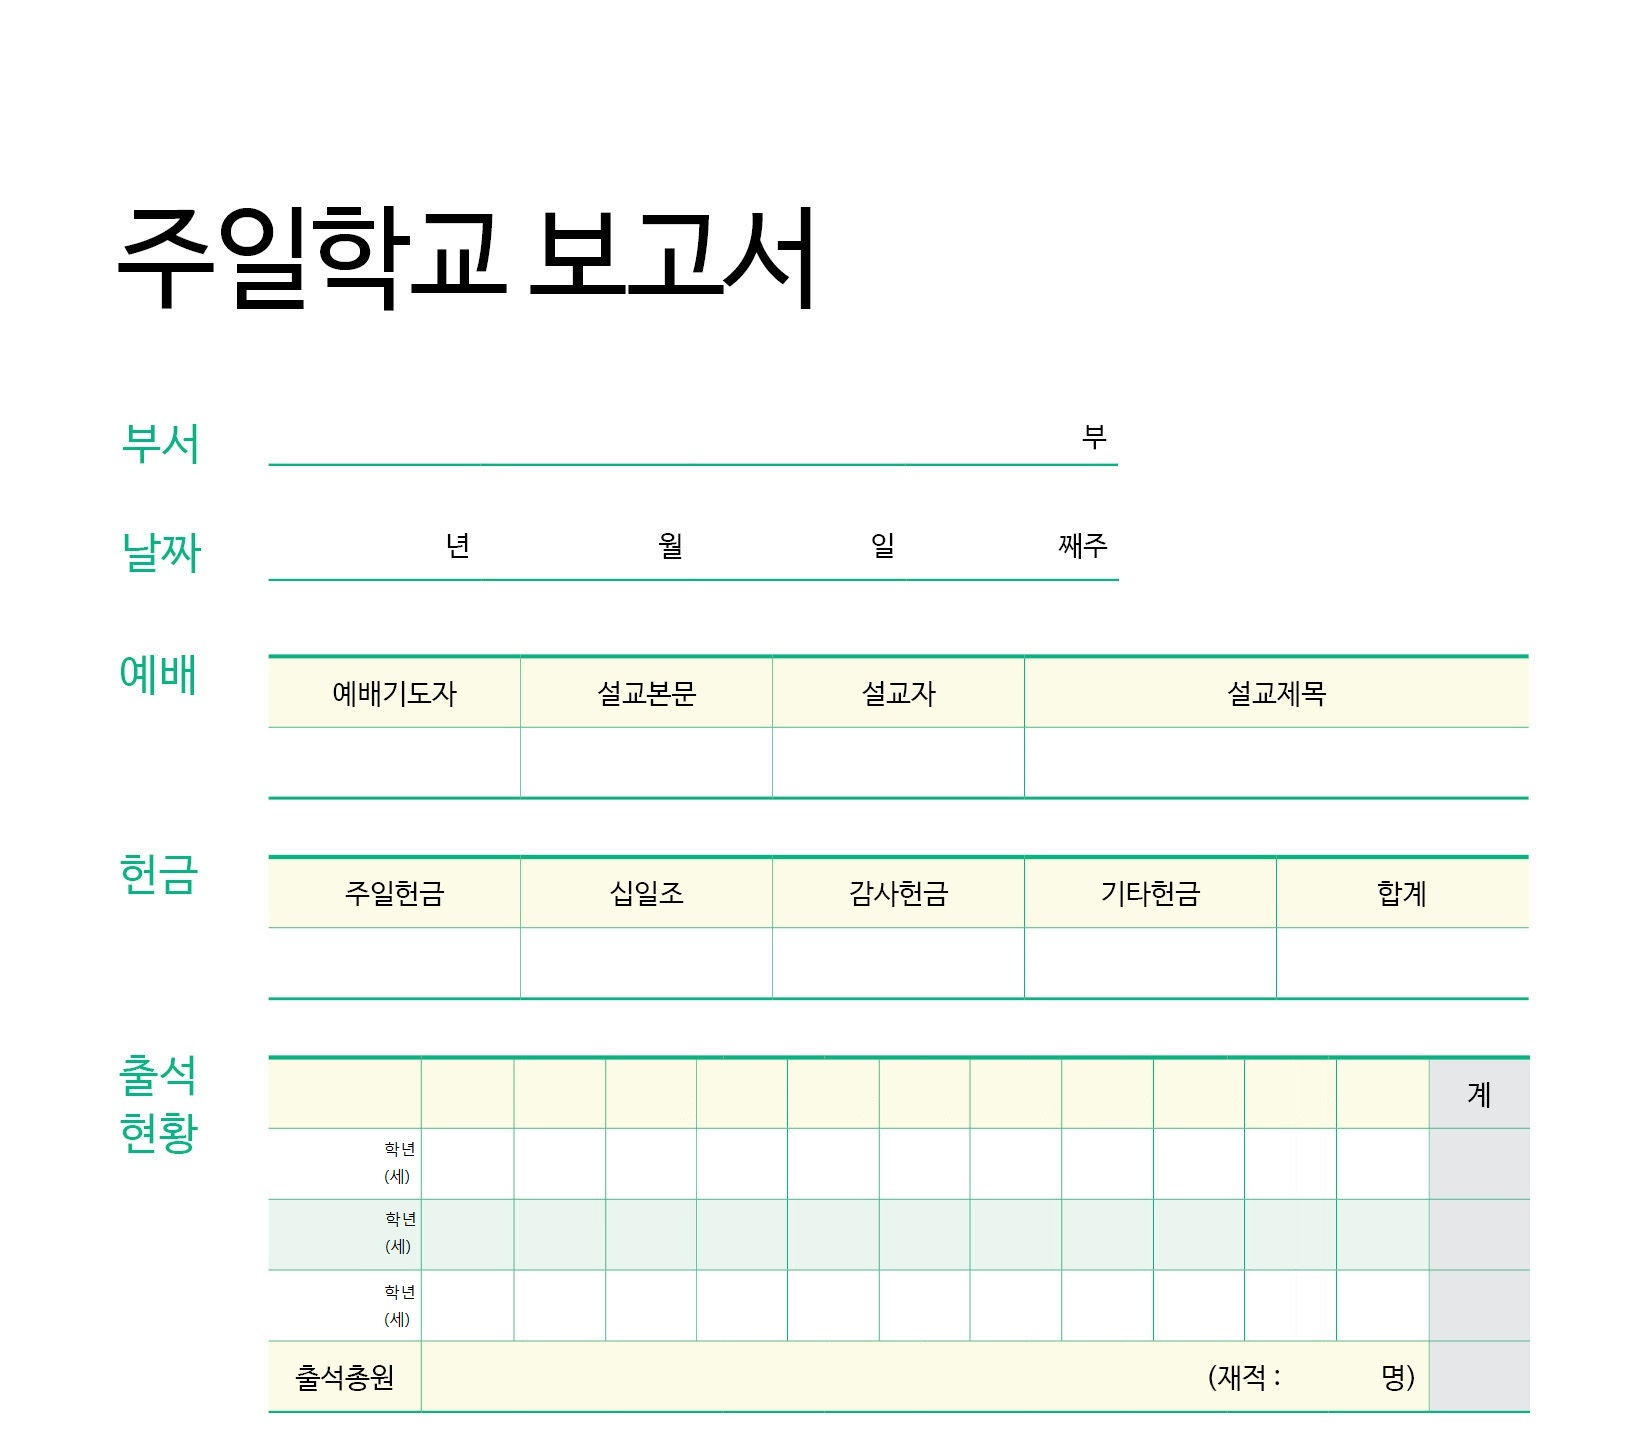
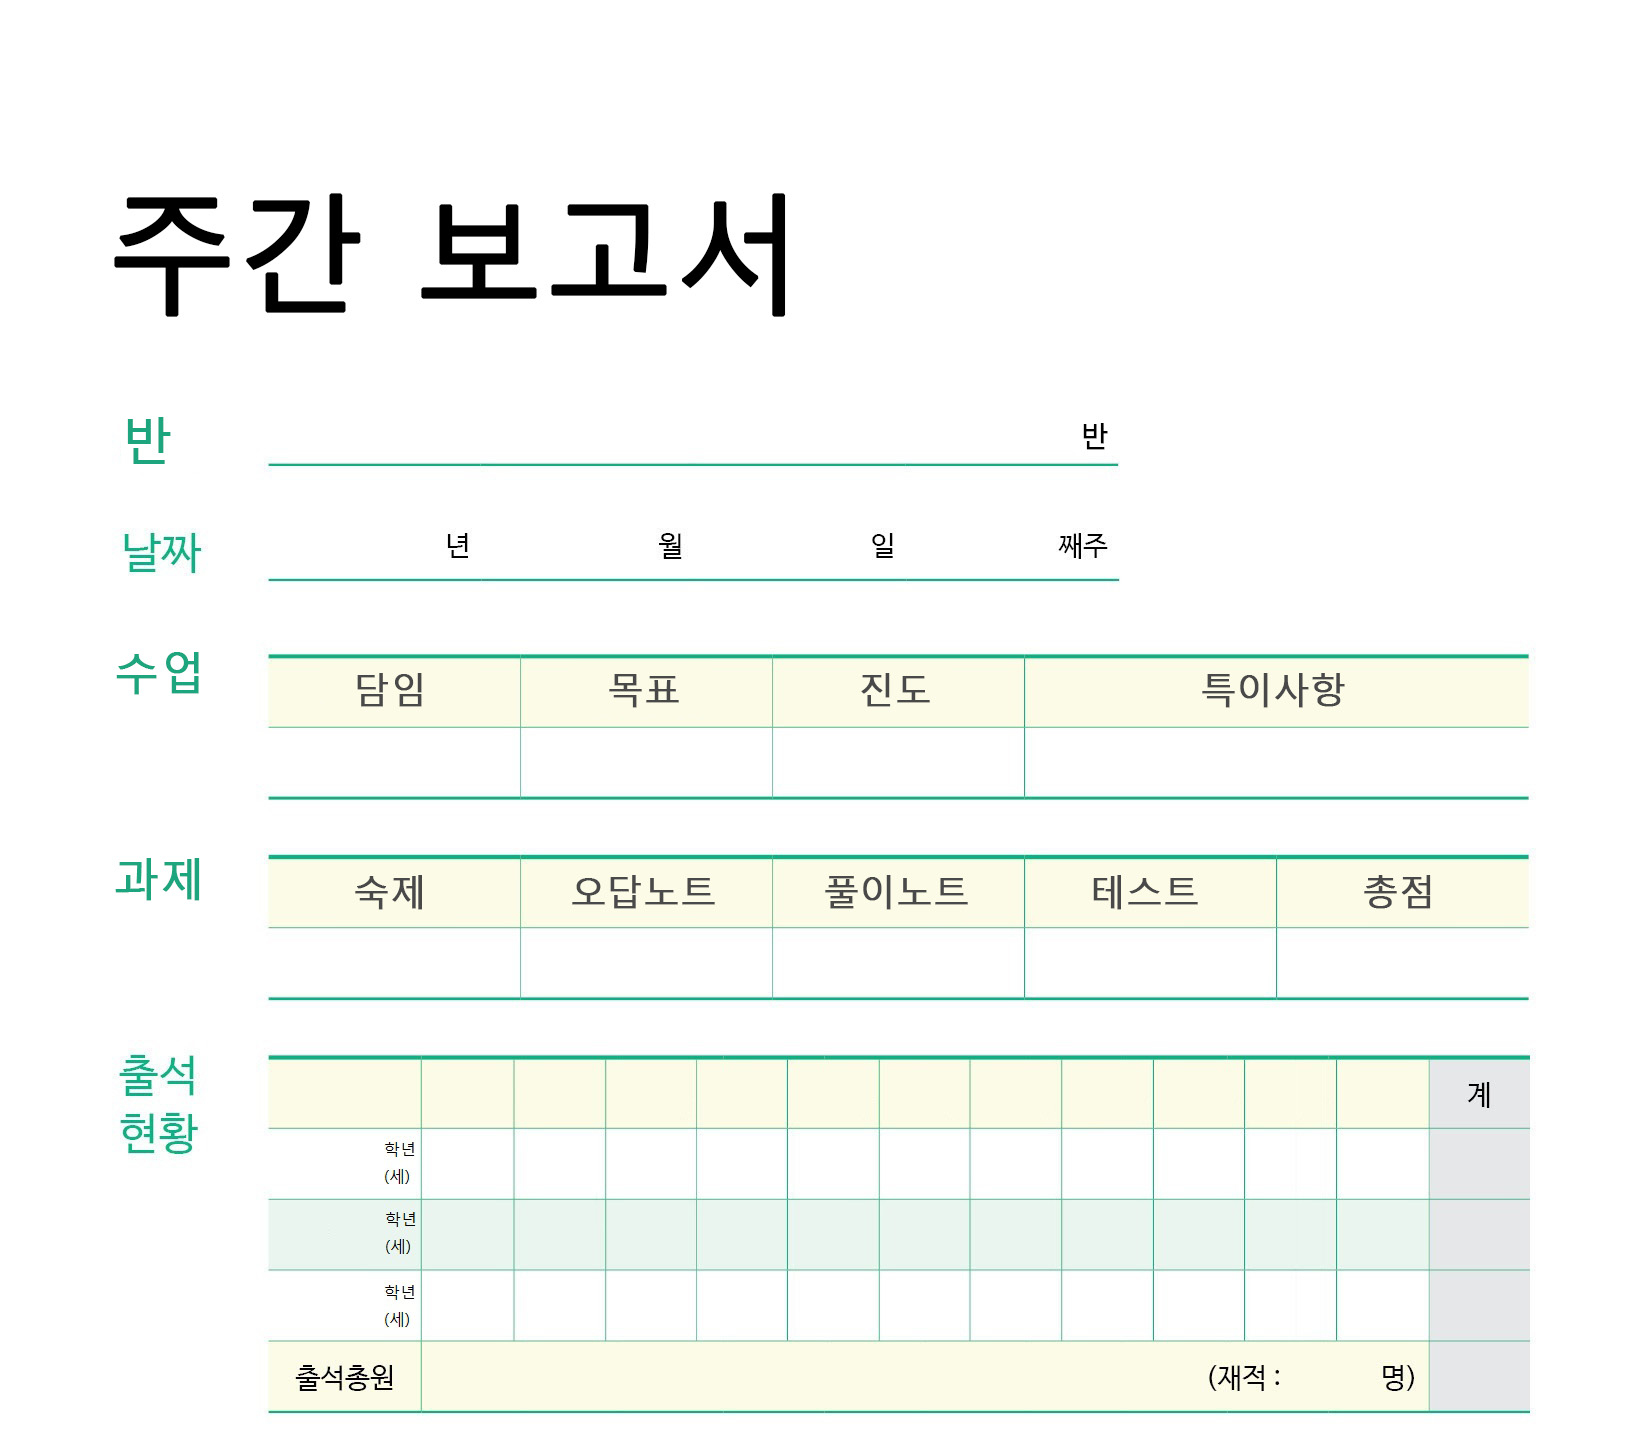
230202

diff --git a/client/src/report/LastResult.js b/client/src/report/LastResult.js
@@ -43,32 +43,32 @@ function LastResult () {
       <div className='lastresult'>
 
         <div className='title'>
-          <div className='title_text'>주일학교 전체</div>
+          <div className='title_text'>학원 전체</div>
           <div className='title_text'>출석 통계</div>
         </div>
 
         <div className='depnamebox'>
           <div className='box'>날짜</div>
           <div className='boxline'></div>
-          <div className='box'>영유아2부</div>
+          <div className='box'>상철T-1</div>
           <div className='boxline'></div>
-          <div className='box'>영유아3부</div>
+          <div className='box'>상철T-2</div>
           <div className='boxline'></div>
-          <div className='box'>유치2부</div>
+          <div className='box'>상철T-3</div>
           <div className='boxline'></div>
-          <div className='box'>유치3부</div>
+          <div className='box'>현우T-1</div>
           <div className='boxline'></div>
-          <div className='box'>유년2부</div>
+          <div className='box'>현우T-2</div>
           <div className='boxline'></div>
-          <div className='box'>유년3부</div>
+          <div className='box'>현우T-3</div>
           <div className='boxline'></div>
-          <div className='box'>초등2부</div>
+          <div className='box'>주은T-1</div>
           <div className='boxline'></div>
-          <div className='box'>초등3부</div>
+          <div className='box'>주은T-2</div>
           <div className='boxline'></div>
-          <div className='box'>중등부</div>
+          <div className='box'>상희T-1</div>
           <div className='boxline'></div>
-          <div className='box'>고등부</div>
+          <div className='box'>상희T-2</div>
           <div className='boxline'></div>
           <div className='box'>합계</div>
         </div>

diff --git a/client/src/report/Report.js b/client/src/report/Report.js
@@ -188,7 +188,7 @@ function Report(props) {
 
       <div className='mainwrapper'>
 
-        <div className='main_notice'>주일학교 보고서는 <br></br>PC에서 작성바랍니다</div>
+        <div className='main_notice'>주간 보고서는 <br></br>PC에서 작성바랍니다</div>
 
         <div className='main'>
 
@@ -283,9 +283,9 @@ function Report(props) {
             <input type="text" className="날짜 일" defaultValue={date_day} onChange={(e)=>{일변경(e.target.value)}}/>
             <input type="text" className="날짜 째주" onChange={(e)=>{째주변경(e.target.value)}}/>
 
-            <input type="text" className="예배 예배기도자" onChange={(e)=>{예배기도자변경(e.target.value)}}/>
+            <input type="text" className="예배 예배기도자" defaultValue={설교자} onChange={(e)=>{예배기도자변경(e.target.value)}}/>
             <input type="text" className="예배 설교본문" onChange={(e)=>{설교본문변경(e.target.value)}}/>
-            <input type="text" className="예배 설교자" defaultValue={설교자} onChange={(e)=>{설교자변경(e.target.value)}}/>
+            <input type="text" className="예배 설교자" onChange={(e)=>{설교자변경(e.target.value)}}/>
             <input type="text" className="예배 설교제목" onChange={(e)=>{설교제목변경(e.target.value)}}/>
 
             {/* 헌금 input */}

diff --git a/client/src/dep/Dep.css b/client/src/dep/Dep.css
@@ -35,7 +35,7 @@
   display: flex;
   align-items: center;
   justify-content: center;
-  background-color: rgb(210, 255, 208);
+  background-color: rgb(165, 214, 252);
   margin-top: 30px;
   font-size: 2rem;
 }
@@ -93,7 +93,7 @@
   width: 50%;
   height: 50%;
   border-radius: 8px;
-  background-color: rgb(188, 254, 183);
+  background-color: rgb(165, 214, 252);
 }
 
 .dep_main_statsbox {
@@ -125,7 +125,7 @@
   display: flex;
   align-items: center;
   justify-content: center;
-  background-color: rgb(188, 254, 183);
+  background-color: rgb(165, 214, 252);
 }
 .dep_main_dateselect_box { 
   width: 100px;
@@ -173,7 +173,7 @@
   justify-content: center;
   width: 130px;
   height: 50px;
-  background-color: rgb(188, 254, 183);
+  background-color: rgb(165, 214, 252);
 }
 
 
@@ -249,7 +249,7 @@ input[type="checkbox"]::after {
   width: 15%;
 } 
 input[type="checkbox"]:checked {
-  background: #1b673c;
+  background-color: rgb(117, 194, 253);
 }
 input[type="checkbox"]:checked::after {
   display: block;
@@ -283,7 +283,7 @@ input[type="checkbox"]:checked::after {
   display: flex;
   align-items: center;
   justify-content: center;
-  background-color: rgb(205, 253, 201);
+  background-color: rgb(165, 214, 252);
 }
 .showflex {
   display: block;

diff --git a/client/src/App.js b/client/src/App.js
@@ -35,8 +35,7 @@ function App() {
         <Route path="/" element={
           
           <div className='App_main'>
-            <div className='maintitle'>주일학교 출석 관리</div>
-            <div className='maintitle2'>(현 페이지는 시범 사이트입니다.)</div>
+            <div className='maintitle'>출석 관리</div>
             <div className='dep_box'>
               { state.부서info.map((a, i)=>{
                   return (
@@ -47,7 +46,7 @@ function App() {
             <div className='dep_buttonbox1'>
               <button className='link_lastreport' onClick={()=>{
               navigate('/lastreport')
-              }}> 주일학교 보고서 작성하기 </button>
+              }}> 주간 보고서 작성하기 </button>
             </div>
             <div className='dep_buttonbox2'>
               <button className='link_login' onClick={()=>{

diff --git a/client/src/store.js b/client/src/store.js
@@ -3,16 +3,16 @@ import { configureStore, createSlice } from '@reduxjs/toolkit'
 let 부서info = createSlice({
   name : '부서info',
   initialState : [
-    {id: 1, dep: '영유아2부'},
-    {id: 2, dep: '영유아3부'},
-    {id: 3, dep: '유치2부'}, 
-    {id: 4, dep: '유치3부'},
-    {id: 5, dep: '유년2부'},
-    {id: 6, dep: '유년3부'},
-    {id: 7, dep: '초등2부'},
-    {id: 8, dep: '초등3부'},
-    {id: 9, dep: '중등부'}, 
-    {id: 10, dep: '고등부'}
+    {id: 1, dep: '상철T-1반'},
+    {id: 2, dep: '상철T-2반'},
+    {id: 3, dep: '상철T-3반'}, 
+    {id: 4, dep: '현우T-1반'},
+    {id: 5, dep: '현우T-2반'},
+    {id: 6, dep: '현우T-3반'},
+    {id: 7, dep: '주은T-1반'},
+    {id: 8, dep: '주은T-2반'},
+    {id: 9, dep: '상희T-1반'}, 
+    {id: 10, dep: '상희T-2반'}
   ]
 }) 
 

diff --git a/client/src/App.css b/client/src/App.css
@@ -35,14 +35,14 @@
   margin: 20px;
   width: 200px;
   height: 150px;
-  background-color: rgb(194, 224, 204);
+  background-color: rgb(135, 193, 251);
   position: relative;
   border-radius: 10px;
   cursor: pointer;
   box-shadow: 5px 5px 10px 2px grey;
 }
 .dep_list:hover {
-  background-color: rgb(107, 131, 119);
+  background-color: rgb(87, 171, 254);
 }
 .dep_list p {
   position: absolute;
@@ -71,14 +71,14 @@
   font-size: 24px;
   width: 500px;
   height: 100px;
-  background-color: rgb(194, 224, 204);
+  background-color: rgb(135, 193, 251);
   border-radius: 10px;
   cursor: pointer;
   box-shadow: 5px 5px 10px 2px grey;
   border: 1px;
 }
 .link_lastreport:hover {
-  background-color: rgb(107, 131, 119);
+  background-color: rgb(87, 171, 254);
 }
 
 .dep_buttonbox2 {

diff --git a/client/public/index.html b/client/public/index.html
@@ -2,7 +2,7 @@
 <html>
   <head>
     <meta charset="utf-8" />
-    <link rel="icon" href="favicon.ico"/>
+    <link rel="icon" href="favicon2.ico"/>
     <link rel="icon" href="data:,">
     <meta content="yes" name="apple-mobile-web-app-capable" />  
     <meta content="minimum-scale=1.0, width=device-width, maximum-scale=1, user-scalable=no" name="viewport" />
@@ -19,7 +19,7 @@
       integrity="sha384-0evHe/X+R7YkIZDRvuzKMRqM+OrBnVFBL6DOitfPri4tjfHxaWutUpFmBp4vmVor"
       crossorigin="anonymous"
     />
-    <title>Youth Report</title>
+    <title>H-math Report</title>
   </head>
   <body>
     <noscript>You need to enable JavaScript to run this app.</noscript>

diff --git a/client/src/dep/Dep3.js b/client/src/dep/Dep3.js
@@ -37,7 +37,7 @@ function Dep3(props) {
   ) }, [])
 
   // classNames
-  let [show, setshow] = useState(`유치2부`) //부서별 수정할 것
+  let [show, setshow] = useState(`1학년`) //부서별 수정할 것
   let [color, setcolor] = useState('1')
 
   // 데이터
@@ -117,7 +117,7 @@ function Dep3(props) {
           
           <div className='dep_main_title'>
             {/* 1) 타이틀 */}           {/* 부서별 수정할 것 */}
-            <div className='dep_main_text'>유치2부</div> 
+            <div className='dep_main_text'>상철T-3반</div> 
             {/* 2) 버튼 */}
             <div className='dep_main_buttonleft'>
               {

diff --git a/client/src/dep/Dep2.js b/client/src/dep/Dep2.js
@@ -37,7 +37,7 @@ function Dep2(props) {
   ) }, [])
 
   // classNames
-  let [show, setshow] = useState(`1~2세`) //부서별 수정할 것
+  let [show, setshow] = useState(`1학년`) //부서별 수정할 것
   let [color, setcolor] = useState('1')
   
   //  데이터
@@ -116,7 +116,7 @@ function Dep2(props) {
 
           <div className='dep_main_title'>
             {/* 1) 타이틀 */}           {/* 부서별 수정할 것 */}
-            <div className='dep_main_text'>영유아3부</div> 
+            <div className='dep_main_text'>상철T-2반</div> 
             {/* 2) 버튼 */}
             <div className='dep_main_buttonleft'>
               {

diff --git a/client/src/dep/Dep1.js b/client/src/dep/Dep1.js
@@ -37,7 +37,7 @@ function Dep1(props) {
   ) }, [])
 
   // classNames
-  let [show, setshow] = useState(`1~2세`) //부서별 수정할 것
+  let [show, setshow] = useState(`1학년`) //부서별 수정할 것
   let [color, setcolor] = useState('1')
   
   // 데이터
@@ -113,7 +113,7 @@ function Dep1(props) {
 
           <div className='dep_main_title'>
             {/* 1) 타이틀 */}           {/* 부서별 수정할 것 */}
-            <div className='dep_main_text'>영유아2부</div> 
+            <div className='dep_main_text'>상철T-1반</div> 
             {/* 2) 버튼 */}
             <div className='dep_main_buttonleft'>
               {

diff --git a/client/src/dep/Dep10.js b/client/src/dep/Dep10.js
@@ -37,7 +37,7 @@ function Dep10(props) {
   ) }, [])
 
   // classNames
-  let [show, setshow] = useState(`고등부`) //부서별 수정할 것
+  let [show, setshow] = useState(`1학년`) //부서별 수정할 것
   let [color, setcolor] = useState('1')
 
   // 데이터
@@ -117,7 +117,7 @@ function Dep10(props) {
 
           <div className='dep_main_title'>
             {/* 1) 타이틀 */}           {/* 부서별 수정할 것 */}
-            <div className='dep_main_text'>고등부</div> 
+            <div className='dep_main_text'>상희T-2반</div> 
             {/* 2) 버튼 */}
             <div className='dep_main_buttonleft'>
               {

diff --git a/client/src/dep/Dep4.js b/client/src/dep/Dep4.js
@@ -37,7 +37,7 @@ function Dep4(props) {
   ) }, [])
 
   // classNames
-  let [show, setshow] = useState(`유치3부`) //부서별 수정할 것
+  let [show, setshow] = useState(`1학년`) //부서별 수정할 것
   let [color, setcolor] = useState('1')
 
   // 데이터
@@ -117,7 +117,7 @@ function Dep4(props) {
 
           <div className='dep_main_title'>
             {/* 1) 타이틀 */}           {/* 부서별 수정할 것 */}
-            <div className='dep_main_text'>유치3부</div> 
+            <div className='dep_main_text'>현우T-1반</div> 
             {/* 2) 버튼 */}
             <div className='dep_main_buttonleft'>
               {
